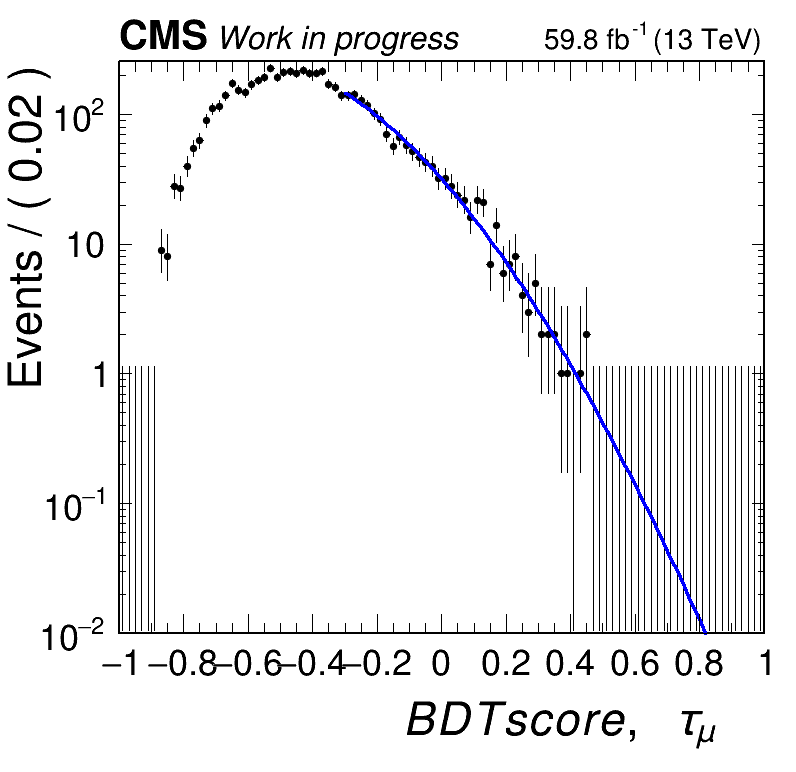
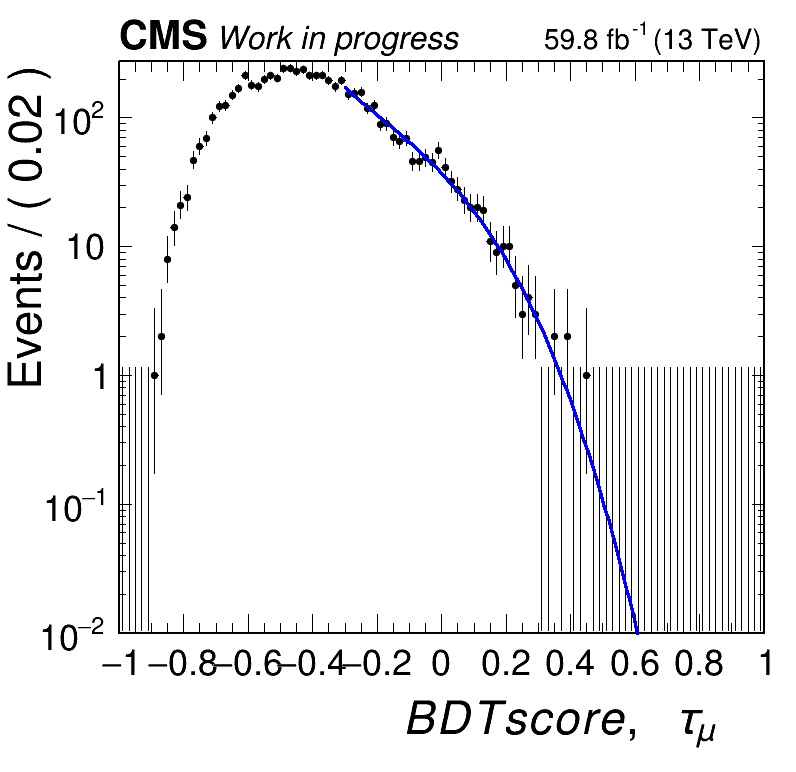
added post thesis combine tree for inclusive category as well

diff --git a/makeYield/readLimits.py b/makeYield/readLimits.py
@@ -114,9 +114,9 @@ def executeDataCards_onCondor(lumi_W,lumi_HF,lumi_ZTT,categories,Whether_Hybrid)
                     if(categories[cat]=="HF"):
                             subcat = ["HF"]
                     if(categories[cat]=="ZTT"):
-                            #subcat = ['taue','taumu','tauhA','tauhB','all','combined']
-                            subcat = ['taue','taumu','tauhA','tauhB','combined']
-                            #subcat = ['combined']
+                            subcat = ['taue','taumu','tauhA','tauhB','all','combined']
+                            #subcat = ['taue','taumu','tauhA','tauhB','combined']
+                            #subcat = ['all']
                     if(categories[cat]=="Combo"):
                             subcat = ["Combo"]
                     
@@ -181,7 +181,7 @@ def plotUpperLimits(lumi_W,lumi_HF,lumi_ZTT,analyzed_lumi_W,analyzed_lumi_HF,ana
     CMSStyle.lumi_13TeV = ""
     
     # Whether to make individual plots
-    WhetherIndividualPlots = False
+    #WhetherIndividualPlots = False
     
     WhetherMultipleBroadCategories = False
     if (Cat_No>1):
@@ -842,10 +842,10 @@ def main():
 
         
 #    categories = ['ZTT','W']
-#    categories = ['W']
+    categories = ['W']
 #    categories = ['ZTT']
 #    categories = ['HF']
-    categories = ['ZTT','HF','W']
+#    categories = ['ZTT','HF','W']
     
     Whether_Hybrid=False
     if(args.Method == 'H'):
@@ -854,12 +854,12 @@ def main():
     #actual categories
     #categories=[args.category]
     
-    #print(lumi_ZTT)
+    WhetherIndividualPlotsBySubcat = True
     
     if(args.runType == 'run'):
             executeDataCards_onCondor(lumi_W,lumi_HF,lumi_ZTT,categories,Whether_Hybrid)
     if(args.runType == 'plot'):
-            plotUpperLimits(lumi_W,lumi_HF,lumi_ZTT,analyzed_lumi_W,analyzed_lumi_HF,analyzed_lumi_ZTT,categories,Whether_Hybrid,False)
+            plotUpperLimits(lumi_W,lumi_HF,lumi_ZTT,analyzed_lumi_W,analyzed_lumi_HF,analyzed_lumi_ZTT,categories,Whether_Hybrid,WhetherIndividualPlotsBySubcat)
 
 if __name__ == '__main__':
     main()

diff --git a/makeYield/ZTT/makeCards.py b/makeYield/ZTT/makeCards.py
@@ -1084,13 +1084,15 @@ if __name__ == "__main__":
         ROOT.gROOT.SetBatch(True)
         
         #categories = ['tauhA']
-        categories = ['taue','taumu','tauhA','tauhB','all']
-        #categories = ['tauhA','tauhB','all']
-        #categories = ['combined'] # Can only be run after the other 4 categories are read and copied
+        #categories = ['taue','taumu','tauhA','tauhB','all']
+        #categories = ['all']
+        categories = ['combined'] # Can only be run after the other 4 categories are read and copied
         
         datafile_bdt_shape = "../../../../Combine_Tree_ztau3mutau_PostThesis_Relaxed.root"
         
         datafile_main = "../../../../Combine_Tree_ztau3mutau_PostThesis_PF.root"#The final PF cuts I would prefer to use
+        
+        datafile_main_incl = "../../../../Combine_Tree_ztau3mutau_PostThesis_PFandGL.root"
         
         #lumi = np.round(np.arange(100,4500,500), 1)
         #lumi = np.insert(lumi, 0 , 59.83)
@@ -1124,7 +1126,7 @@ if __name__ == "__main__":
         Cat_No = len(categories)
         
         #To create datacards
-        WhetherFitBDTandMakeCards = True
+        WhetherFitBDTandMakeCards = False
         
         for cat in range(Cat_No):
                 categ = categories[cat]
@@ -1150,8 +1152,8 @@ if __name__ == "__main__":
                         datafile_for_shape = datafile_bdt_shape
                 if(categ == 'all'):
                         analyzed_lumi = 59.83
-                        datafile_for_norm = datafile_main
-                        datafile_for_shape = datafile_main
+                        datafile_for_norm = datafile_main_incl
+                        datafile_for_shape = datafile_main_incl
                 if(categ == 'combined'):
                         analyzed_lumi = 59.83
                         datafile_for_norm = datafile_main

diff --git a/makeYield/W/makeCards.py b/makeYield/W/makeCards.py
@@ -1175,8 +1175,8 @@ if __name__ == "__main__":
         ROOT.gROOT.SetBatch(True)
         
         #categories = ['CatC']
-        categories = ['CatA','CatB','CatC']
-        #categories = ['combined'] # Can only be run after the other 4 categories are read and copied
+        #categories = ['CatA','CatB','CatC']
+        categories = ['combined'] # Can only be run after the other 4 categories are read and copied
         
         datafile_sig = "luca_root/signal_threeMedium_weighted_16Mar2022.root"        
         datafile_bkg = "luca_root/background_threeMedium-UNBLINDED.root" 
@@ -1245,6 +1245,7 @@ if __name__ == "__main__":
         #executeDataCards_onCondor(lumi,categories,False,bdt_points)
         #ReadAndCopyMinimumBDTCard(lumi,categories,False,bdt_points)
         
+        #Actual
         #CalculateUL_fromDatacard(lumi,categories,False,bdt_points)
         #ReadAndCopyMinimumBDTCard_usingUL(lumi,categories,True,bdt_points)
         
